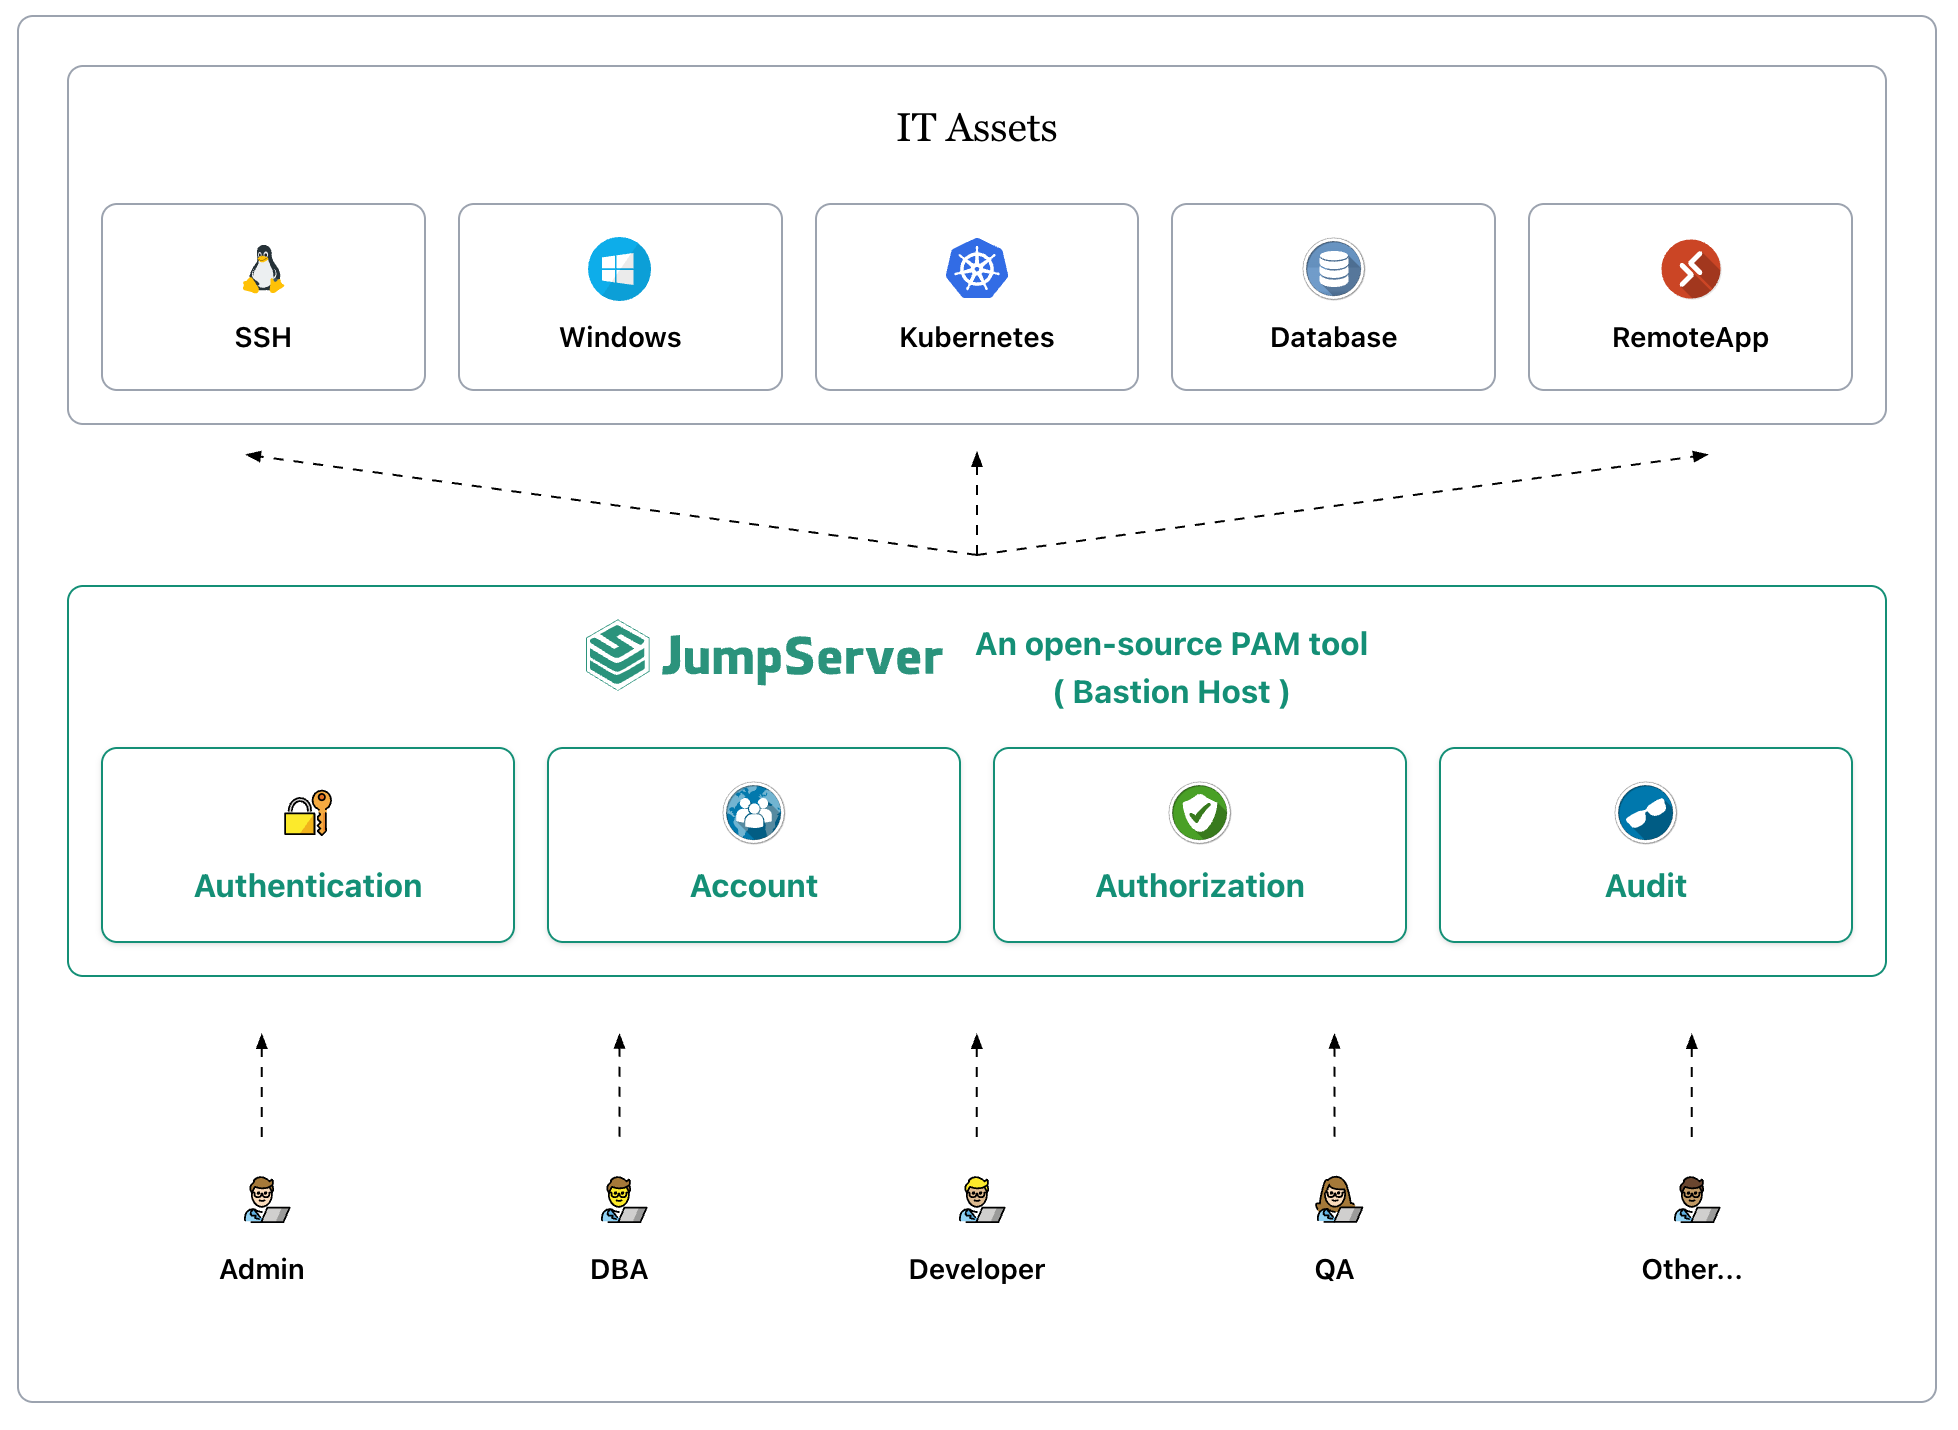
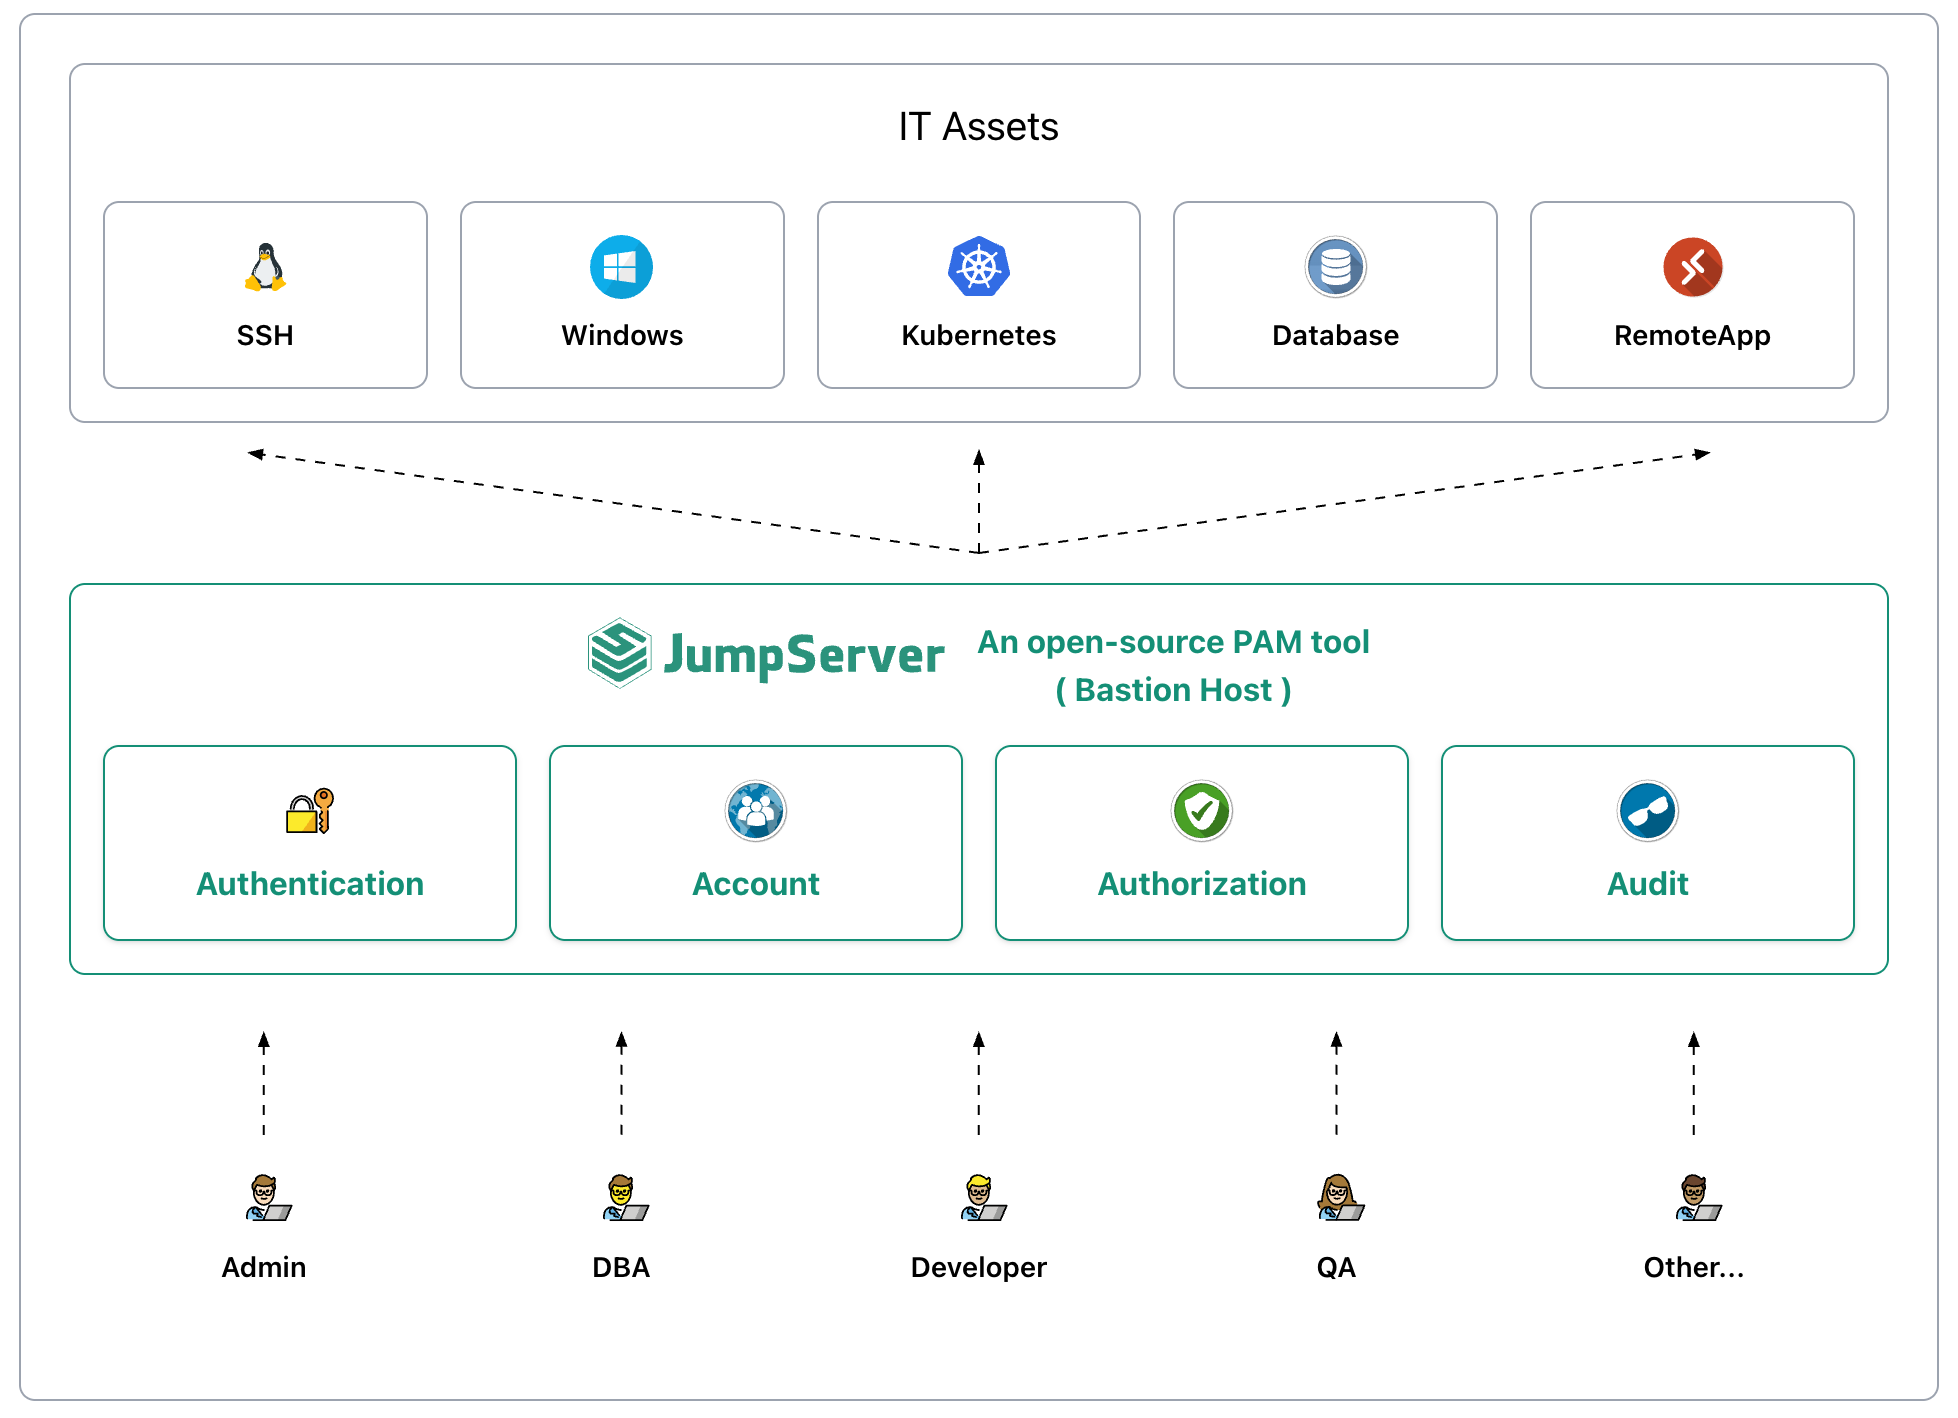
perf: arch font

diff --git a/src/components/home/architecture.tsx b/src/components/home/architecture.tsx
@@ -29,7 +29,7 @@ export const ArchitectureDiagram = () => {
     <div className="max-w-6xl mx-auto p-6 rounded-lg border border-gray-400 dark:border-gray-500">
 
       <div className="border border-gray-400 dark:border-gray-500 rounded-lg p-4">
-        <div className="text-xl font-serif text-center mb-6">IT Assets</div>
+        <div className="text-xl text-center mb-6">IT Assets</div>
         <div className="grid grid-cols-1 sm:grid-cols-2 md:grid-cols-5 gap-4 text-center">
           {assets.map((item) => (
             <div key={item.name} className="flex flex-col items-center p-4 border border-gray-400 dark:border-gray-500 rounded-lg">
